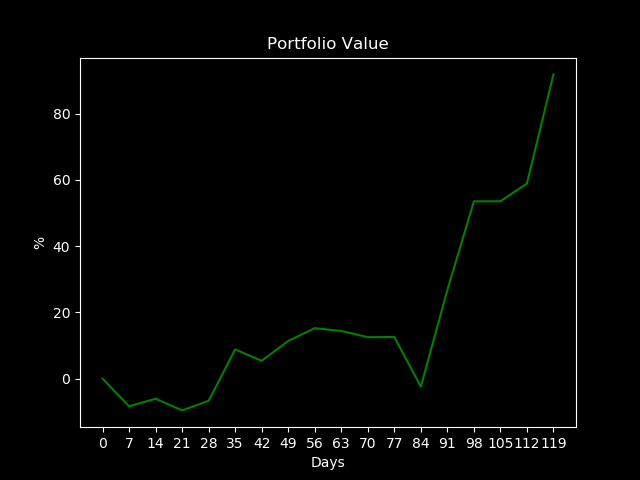
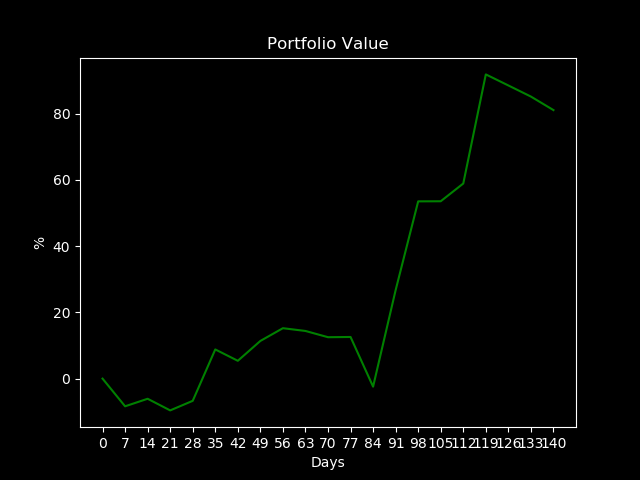
weekly profit update

diff --git a/html/mm.html b/html/mm.html
@@ -68,7 +68,7 @@
 							<div class="image fit">
                                                         <a href="images/portfolio.png"><img src="images/portfolio.png"></img></a>
 							<br>
-							<p>Pretty good! I lost nearly $10,000 immediately, but have recovered nicely. This past week has been incredible! This particular strategy seems to benefit from high volatility.  This chart shows performance as of 10/4/2019</p>				
+							<p>Pretty good! I lost nearly $10,000 immediately, but have recovered nicely. This past week has been incredible! This particular strategy seems to benefit from high volatility. This chart shows performance as of 10/25/2019</p>				
 							</div>
 						</div>
 					</div>
